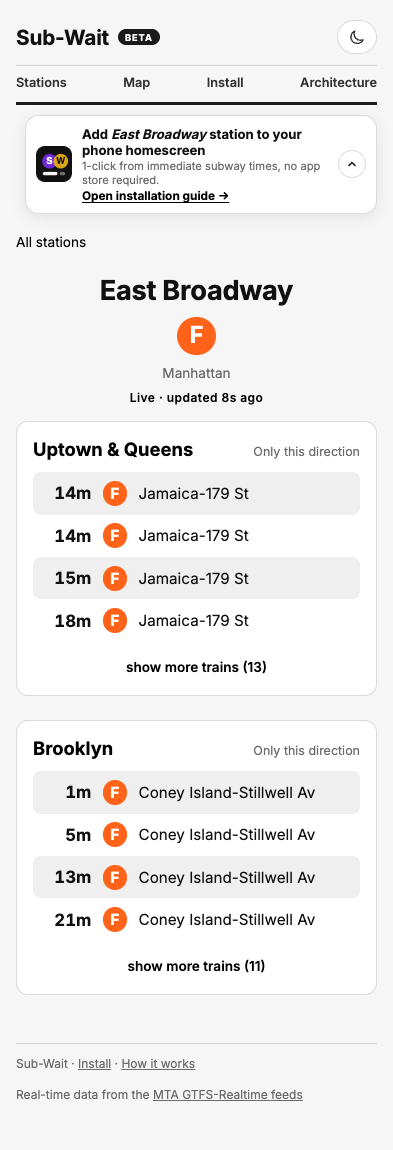
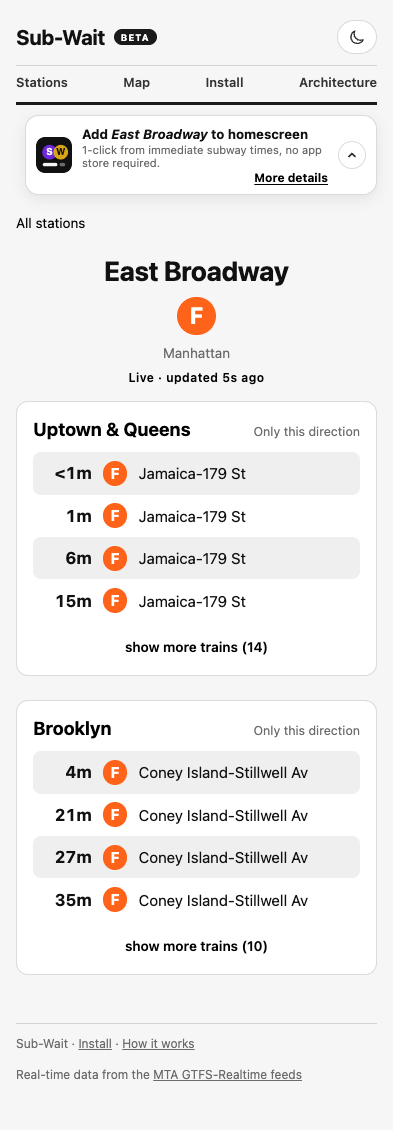
sub-wait: refine station install reminder

diff --git a/src/features/sub-wait/components/SubWaitPwa.test.tsx b/src/features/sub-wait/components/SubWaitPwa.test.tsx
@@ -81,14 +81,14 @@ describe('SubWaitPwa', () => {
       </MemoryRouter>,
     )
     expect(
-      screen.getByText('Add Sub-Wait to your phone homescreen'),
+      screen.getByText('Add Sub-Wait to homescreen'),
     ).toBeInTheDocument()
     expect(
       screen.getByText(
         '1-click from immediate subway times, no app store required.',
       ),
     ).toBeInTheDocument()
-    expect(screen.getByRole('link', { name: /Open installation guide/ })).toHaveAttribute(
+    expect(screen.getByRole('link', { name: 'More details' })).toHaveAttribute(
       'href',
       '/sub-wait/install',
     )
@@ -97,7 +97,7 @@ describe('SubWaitPwa', () => {
       screen.getByRole('button', { name: 'Collapse install instructions' }),
     )
     expect(
-      screen.queryByText('Add Sub-Wait to your phone homescreen'),
+      screen.queryByText('Add Sub-Wait to homescreen'),
     ).not.toBeInTheDocument()
     expect(
       screen.getByRole('button', { name: 'Open install instructions' }),
@@ -110,7 +110,7 @@ describe('SubWaitPwa', () => {
       screen.getByRole('button', { name: 'Open install instructions' }),
     )
     expect(
-      screen.getByText('Add Sub-Wait to your phone homescreen'),
+      screen.getByText('Add Sub-Wait to homescreen'),
     ).toBeInTheDocument()
     expect(window.localStorage.getItem('sub-wait-install-hint-collapsed')).toBe(
       'false',
@@ -133,8 +133,7 @@ describe('SubWaitPwa', () => {
       screen.getByText(
         (_, element) =>
           element?.tagName === 'STRONG' &&
-          element.textContent ===
-            'Add East Broadway station to your phone homescreen',
+          element.textContent === 'Add East Broadway to homescreen',
       ),
     ).toBeInTheDocument()
     expect(screen.getByText('East Broadway').tagName).toBe('EM')

diff --git a/src/features/sub-wait/components/SubWaitPwa.tsx b/src/features/sub-wait/components/SubWaitPwa.tsx
@@ -124,14 +124,14 @@ export default function SubWaitPwa(): ReactElement | null {
         <strong>
           {station ? (
             <>
-              Add <em>{station.name}</em> station to your phone homescreen
+              Add <em>{station.name}</em> to homescreen
             </>
           ) : (
-            'Add Sub-Wait to your phone homescreen'
+            'Add Sub-Wait to homescreen'
           )}
         </strong>
         <span>1-click from immediate subway times, no app store required.</span>
-        <a href={assetUrl('sub-wait/install')}>Open installation guide →</a>
+        <a href={assetUrl('sub-wait/install')}>More details</a>
       </div>
       <button
         type="button"

diff --git a/src/features/sub-wait/sub-wait.module.css b/src/features/sub-wait/sub-wait.module.css
@@ -752,6 +752,7 @@
 }
 
 .installHintCopy a {
+  align-self: flex-end;
   color: var(--sw-accent-strong);
   font-size: 0.74rem;
   font-weight: 700;
